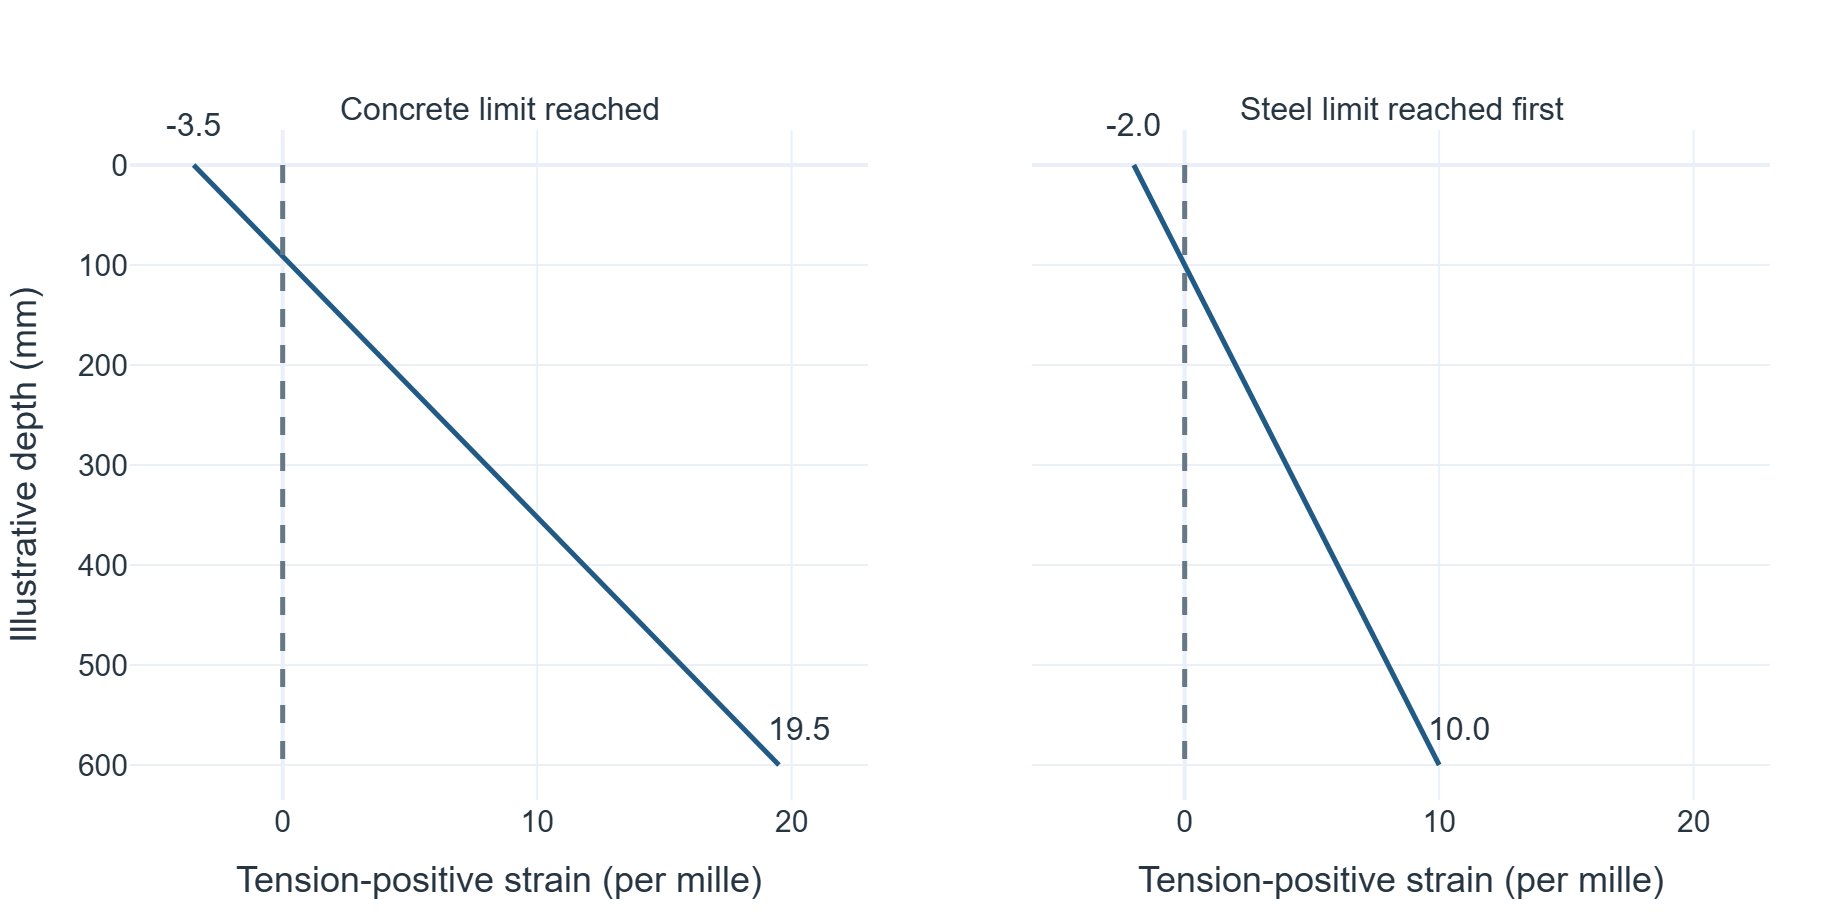
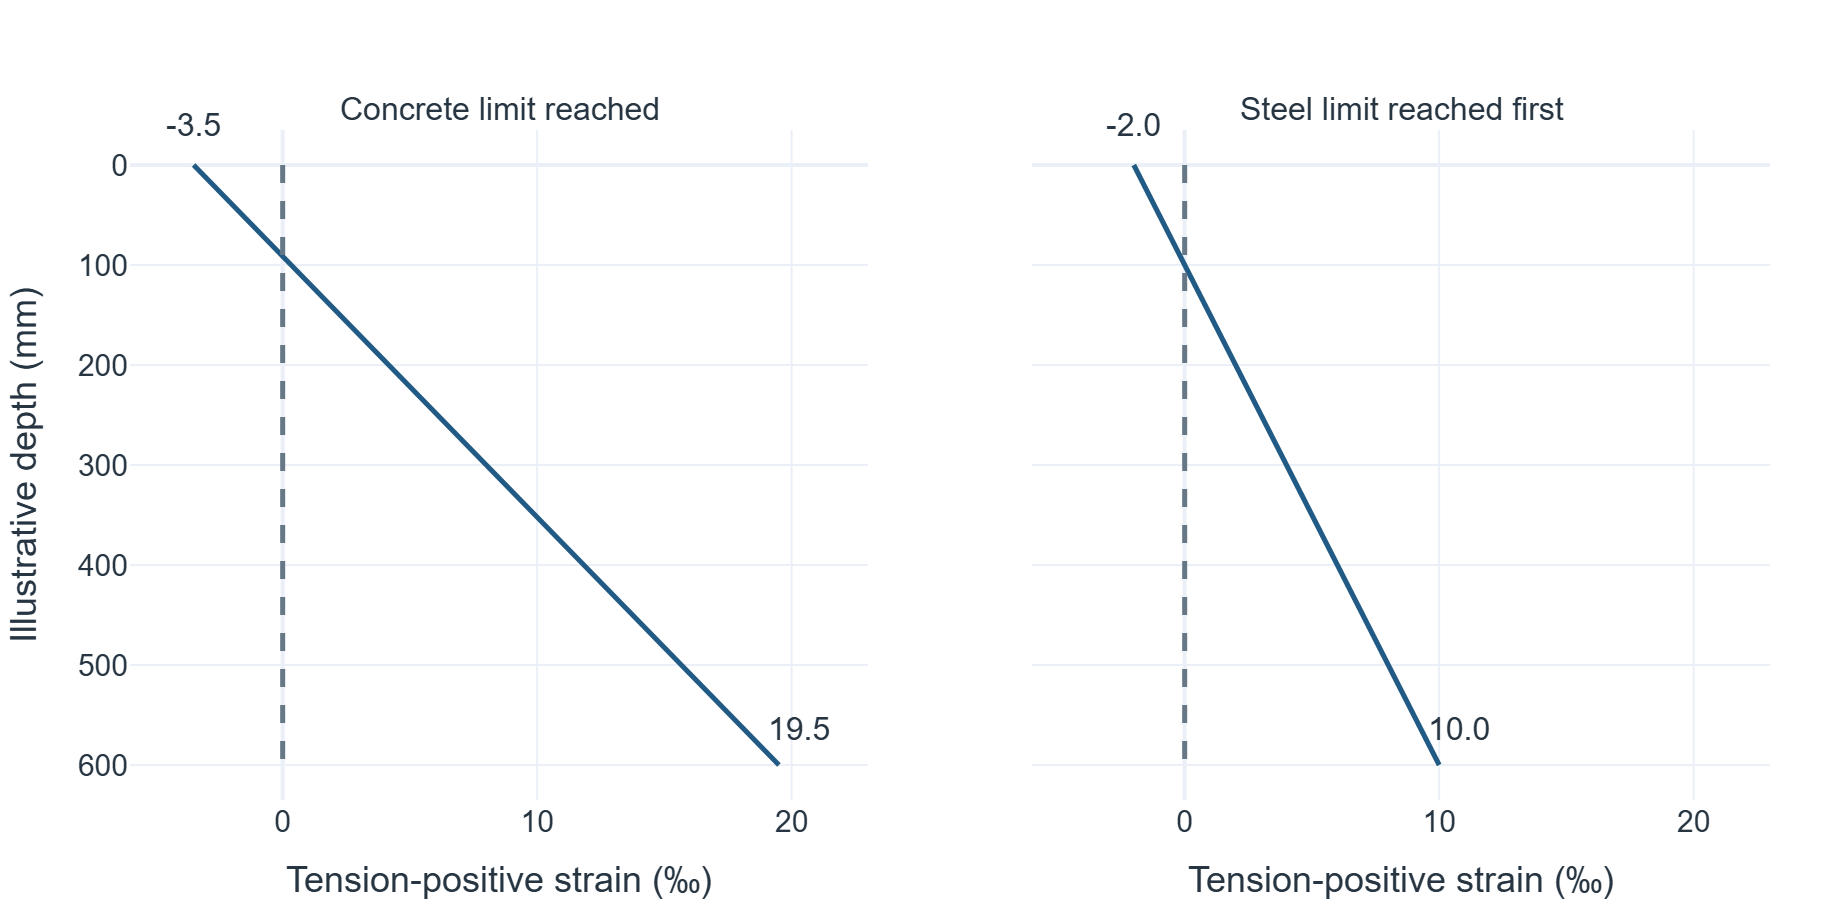
docs: align strain notation and refresh fatigue checks [skip ci]

Changed region(s): [[0.1239, 0.9435, 0.4337, 0.9739], [0.6196, 0.9435, 0.8984, 0.9739]]

diff --git a/tests/test_v096_standard_audit_depth.py b/tests/test_v096_standard_audit_depth.py
@@ -4,14 +4,17 @@ from __future__ import annotations
 
 import copy
 import io
+import math
 import pathlib
 import pickle
+import re
 import sys
 
 ROOT = pathlib.Path(__file__).resolve().parent.parent
 sys.path.insert(0, str(ROOT / "app"))
 
 import fatigue_presentation
+import fatigue_analysis
 import result_presentation as presentation
 import sector_report
 
@@ -31,6 +34,25 @@ def _builder(profile: str):
 
 def _snapshot(value) -> bytes:
     return pickle.dumps(value, protocol=pickle.HIGHEST_PROTOCOL)
+
+
+def _fixture_governing_concrete_ties(payload):
+    """Check the symmetric top-corner tie from the raw criterion values."""
+    spectra = fatigue_presentation.items(payload, "spectra")
+    assert len(spectra) == 1
+    results = fatigue_presentation.items(spectra[0], "concrete")
+    metrics = {
+        result.fibre_index: max(result.damage_utilisation, result.stress_utilisation)
+        for result in results
+    }
+    largest = max(metrics.values())
+    assert math.isclose(largest, 0.297823814251576, rel_tol=1e-10)
+    ties = {
+        index for index, value in metrics.items()
+        if math.isclose(value, largest, rel_tol=1e-12, abs_tol=0.0)
+    }
+    assert ties == {2, 3}
+    return ties
 
 
 def _capture(builder):
@@ -256,8 +278,10 @@ def test_standard_clear_spacing_table_contains_only_the_retained_governing_pair(
 
 def test_standard_fatigue_population_tables_keep_only_governing_element_and_fibre():
     published = {}
+    expected_fibres = None
     for profile in ("Standard", "Audit"):
         builder = _builder(profile)
+        expected_fibres = _fixture_governing_concrete_ties(builder._base_out["fatigue"])
         before = _snapshot(builder._base_out)
         _headings, tables, _equations = _capture(builder)
         builder._fatigue_reinforcement_formulas = lambda *_args, **_kwargs: None
@@ -288,7 +312,8 @@ def test_standard_fatigue_population_tables_keep_only_governing_element_and_fibr
     assert [row[0] for row in audit_reinforcement[1:]] == ["R1", "R2", "R3", "R4"]
     assert [row[1] for row in standard_screens[1:]] == ["R1"]
     assert [row[1] for row in audit_screens[1:]] == ["R1", "R2", "R3", "R4"]
-    assert [row[0] for row in standard_concrete[1:]] == [2]
+    assert len(standard_concrete[1:]) == 1
+    assert standard_concrete[1][0] in expected_fibres
     assert [row[0] for row in audit_concrete[1:]] == [0, 1, 2, 3, 4]
 
 
@@ -373,6 +398,9 @@ def test_audit_miner_sums_keep_all_retained_bin_operands():
 
 def test_existing_audit_only_solver_and_crack_candidate_ledgers_remain_separate():
     texts = {}
+    expected_fibres = _fixture_governing_concrete_ties(
+        fatigue_analysis.run_analysis(report_render_fixture._inputs())
+    )
     for profile in ("Standard", "Audit"):
         pdf = report_render_fixture.build_fixture_pdf(
             figures=False, profile=profile
@@ -391,12 +419,15 @@ def test_existing_audit_only_solver_and_crack_candidate_ledgers_remain_separate(
         assert heading in texts["Audit"]
     assert "Worked plastic calculation (utilisation direction)" not in texts["Standard"]
     assert "Worked plastic calculation (utilisation direction)" in texts["Audit"]
-    for heading in (
-        "Governing reinforcement element - R1",
-        "Governing concrete fibre - 2",
-    ):
-        assert heading in texts["Standard"]
-        assert heading in texts["Audit"]
+    selected_fibres = {}
+    for profile, text in texts.items():
+        assert "Governing reinforcement element - R1" in text
+        selected_fibres[profile] = {
+            int(value) for value in re.findall(r"Governing concrete fibre - (\d+)", text)
+        }
+        assert len(selected_fibres[profile]) == 1
+        assert selected_fibres[profile] <= expected_fibres
+    assert selected_fibres["Standard"] == selected_fibres["Audit"]
 
 
 def test_brief_separates_fatigue_results_and_keeps_conflicting_detail_records():

diff --git a/app/publication_items.py b/app/publication_items.py
@@ -118,7 +118,7 @@ MANUAL_FIGURE_SPECS = (
     ManualFigureSpec('Part C - Theory & methodology', 'Material laws', 'fig_circular_prestress_law', 'The tendon law of the circular example.', 'The tendon curve starts with an elastic slope, bends toward the proof-strength region and terminates at the defined ultimate strain.'),
     ManualFigureSpec('Part C - Theory & methodology', 'Plastic capacity analysis', 'fig_strain_plane', 'The capacity strain plane (reported tension-positive convention): one straight line -- zero at the neutral axis, compression (negative) above it and tension (positive) below, the top fibre at the crushing strain in this concrete-governed example. The calculation formula above is compression-positive; the reported strains negate it.', 'A straight strain line crosses zero at the neutral axis; negative compression lies above it, positive tension below it, and the top fibre reaches ultimate concrete compression.'),
     ManualFigureSpec('Part C - Theory & methodology', 'Plastic capacity analysis', 'fig_beam_envelope', 'The beam envelope with its applied load; each vertex is one solved neutral-axis angle.', 'A closed biaxial moment-resistance curve is plotted with the design moment point, showing its position inside the boundary and the discrete angular sweep points.'),
-    ManualFigureSpec('Part C - Theory & methodology', 'Plastic capacity analysis', 'fig_capacity_limits', 'Illustrative strain-limit comparison. The right panel assumes a tensile steel limit of 10 per mille; it represents a different material from the worked beam.', 'Two compatible straight strain lines illustrate concrete reaching 3.5 per mille compression and steel reaching its own illustrative tension limit while concrete remains below crushing.'),
+    ManualFigureSpec('Part C - Theory & methodology', 'Plastic capacity analysis', 'fig_capacity_limits', 'Illustrative strain-limit comparison. The right panel assumes a tensile steel limit of 10 \u2030; it represents a different material from the worked beam.', 'Two compatible straight strain lines illustrate concrete reaching 3.5 \u2030 compression and steel reaching its own illustrative tension limit while concrete remains below crushing.'),
     ManualFigureSpec('Part C - Theory & methodology', 'Plastic capacity analysis', 'fig_plastic_bands', 'Worked plastic compression zone. The eight displayed groups each contain ten integration bands. The plateau is integrated separately.', 'The upper part carries constant design compression stress; the lower part follows the rising law down to zero stress at the neutral axis.'),
     ManualFigureSpec('Part C - Theory & methodology', 'Plastic capacity analysis', 'fig_envelope_ray', 'A fixed-N envelope from 15-degree orientation steps. The applied biaxial moment lies on a ray from the origin to the boundary.', 'Discrete capacity points define a closed moment polygon. A ray through the applied pair Mx = 180 kNm and My = 30 kNm intersects that polygon to define utilization.'),
     ManualFigureSpec('Part C - Theory & methodology', 'Cracked-section elastic analysis', 'fig_beam_cracked', "The beam's cracked (Stage II) state under the service moment: the compression zone (shaded) above the neutral axis.", 'A rectangular section has a shaded concrete compression zone above a horizontal neutral axis, with reinforcement points included in the Stage II section.'),

diff --git a/app/manual_walkthroughs.py b/app/manual_walkthroughs.py
@@ -348,7 +348,7 @@ def fig_capacity_limits():
         )
         fig.update_xaxes(
             range=[-6, 23],
-            title_text="Tension-positive strain (per mille)",
+            title_text="Tension-positive strain (\u2030)",
             row=1,
             col=col,
         )
@@ -638,7 +638,7 @@ def common_blocks():
         _md(
             "Use mm, N, N mm and MPa together for the worked arithmetic. Convert kN to N by multiplying by 1000. "
             "Convert kNm to N mm by multiplying by 10^6. A curvature stated in 1/m is 1000 times its value in 1/mm. "
-            "The material laws use dimensionless strain; multiply by 1000 to express strain in per mille."
+            "The material laws use dimensionless strain; multiply by 1000 to express strain in \u2030."
         ),
     ]
 
@@ -899,8 +899,8 @@ def plastic_blocks():
         ),
         _figure(
             fig_capacity_limits,
-            "Illustrative strain-limit comparison. The right panel assumes a tensile steel limit of 10 per mille; it represents a different material from the worked beam.",
-            "Two compatible straight strain lines illustrate concrete reaching 3.5 per mille compression and steel reaching its own illustrative tension limit while concrete remains below crushing.",
+            "Illustrative strain-limit comparison. The right panel assumes a tensile steel limit of 10 \u2030; it represents a different material from the worked beam.",
+            "Two compatible straight strain lines illustrate concrete reaching 3.5 \u2030 compression and steel reaching its own illustrative tension limit while concrete remains below crushing.",
         ),
         _md(
             "2. **Calculate concrete forces.** The plateau begins at $s_{peak}=s_{na}+\\varepsilon_{c2}/\\kappa$. "

diff --git a/tests/test_fatigue.py b/tests/test_fatigue.py
@@ -1937,7 +1937,8 @@ def test_2005_mixed_bond_correction_applies_eta_to_rebar_only():
     )
 
 
-def test_2023_mixed_bond_correction_uses_equivalent_tendon_area():
+@pytest.mark.parametrize("displace_concrete", [False, True])
+def test_2023_mixed_bond_correction_uses_equivalent_tendon_area(displace_concrete):
     section = Section.from_polygon(
         corners=[
             (-0.20, -0.30),
@@ -1951,8 +1952,11 @@ def test_2023_mixed_bond_correction_uses_equivalent_tendon_area():
     n_ratio = 10.0
     short_force = 100.0
     beta = 0.5
-    actual_area = section.gross_area + n_ratio * 0.002
-    equivalent_area = section.gross_area + n_ratio * 0.0015
+    # The uncracked transformed section uses the additional steel area when
+    # concrete occupies the same geometry. Cover both supported conventions.
+    added_ratio = n_ratio - int(displace_concrete)
+    actual_area = section.gross_area + added_ratio * 0.002
+    equivalent_area = section.gross_area + added_ratio * 0.0015
     expected_elastic = n_ratio * short_force / actual_area / 1000.0
     expected_equivalent = (
         n_ratio * short_force / equivalent_area / 1000.0
@@ -1969,6 +1973,7 @@ def test_2023_mixed_bond_correction_uses_equivalent_tendon_area():
         check_concrete=False,
         n_mult=np.ones(2),
         prestress_stress=np.zeros(2),
+        displace_concrete=displace_concrete,
     )
 
     mild = result.reinforcement[0].bins[0]

diff --git a/docs/v0965_manual_acceptance.md b/docs/v0965_manual_acceptance.md
@@ -33,3 +33,12 @@ standard-library worker. This avoids measuring the Windows virtual-environment
 redirector's child-process lifetime. The private-handle assertions, expected
 protocol output and 1.5-second limit remain in place. Both corrections affect
 tests only.
+
+The complete CI run also exposed three fatigue-test failures that reproduce on
+the unchanged base. The mixed-bond arithmetic now covers both displaced-concrete
+settings explicitly. The report-depth checks accept either symmetric top corner
+only after verifying their raw criterion values and the narrow governing tie.
+They still require one Standard row, all Audit rows and matching profile headings.
+The introduced strain-notation finding uses the established U+2030 symbol in the
+manual text, captions, alternatives and figure axis. Its PNG and manifest are
+regenerated from the corrected source.
